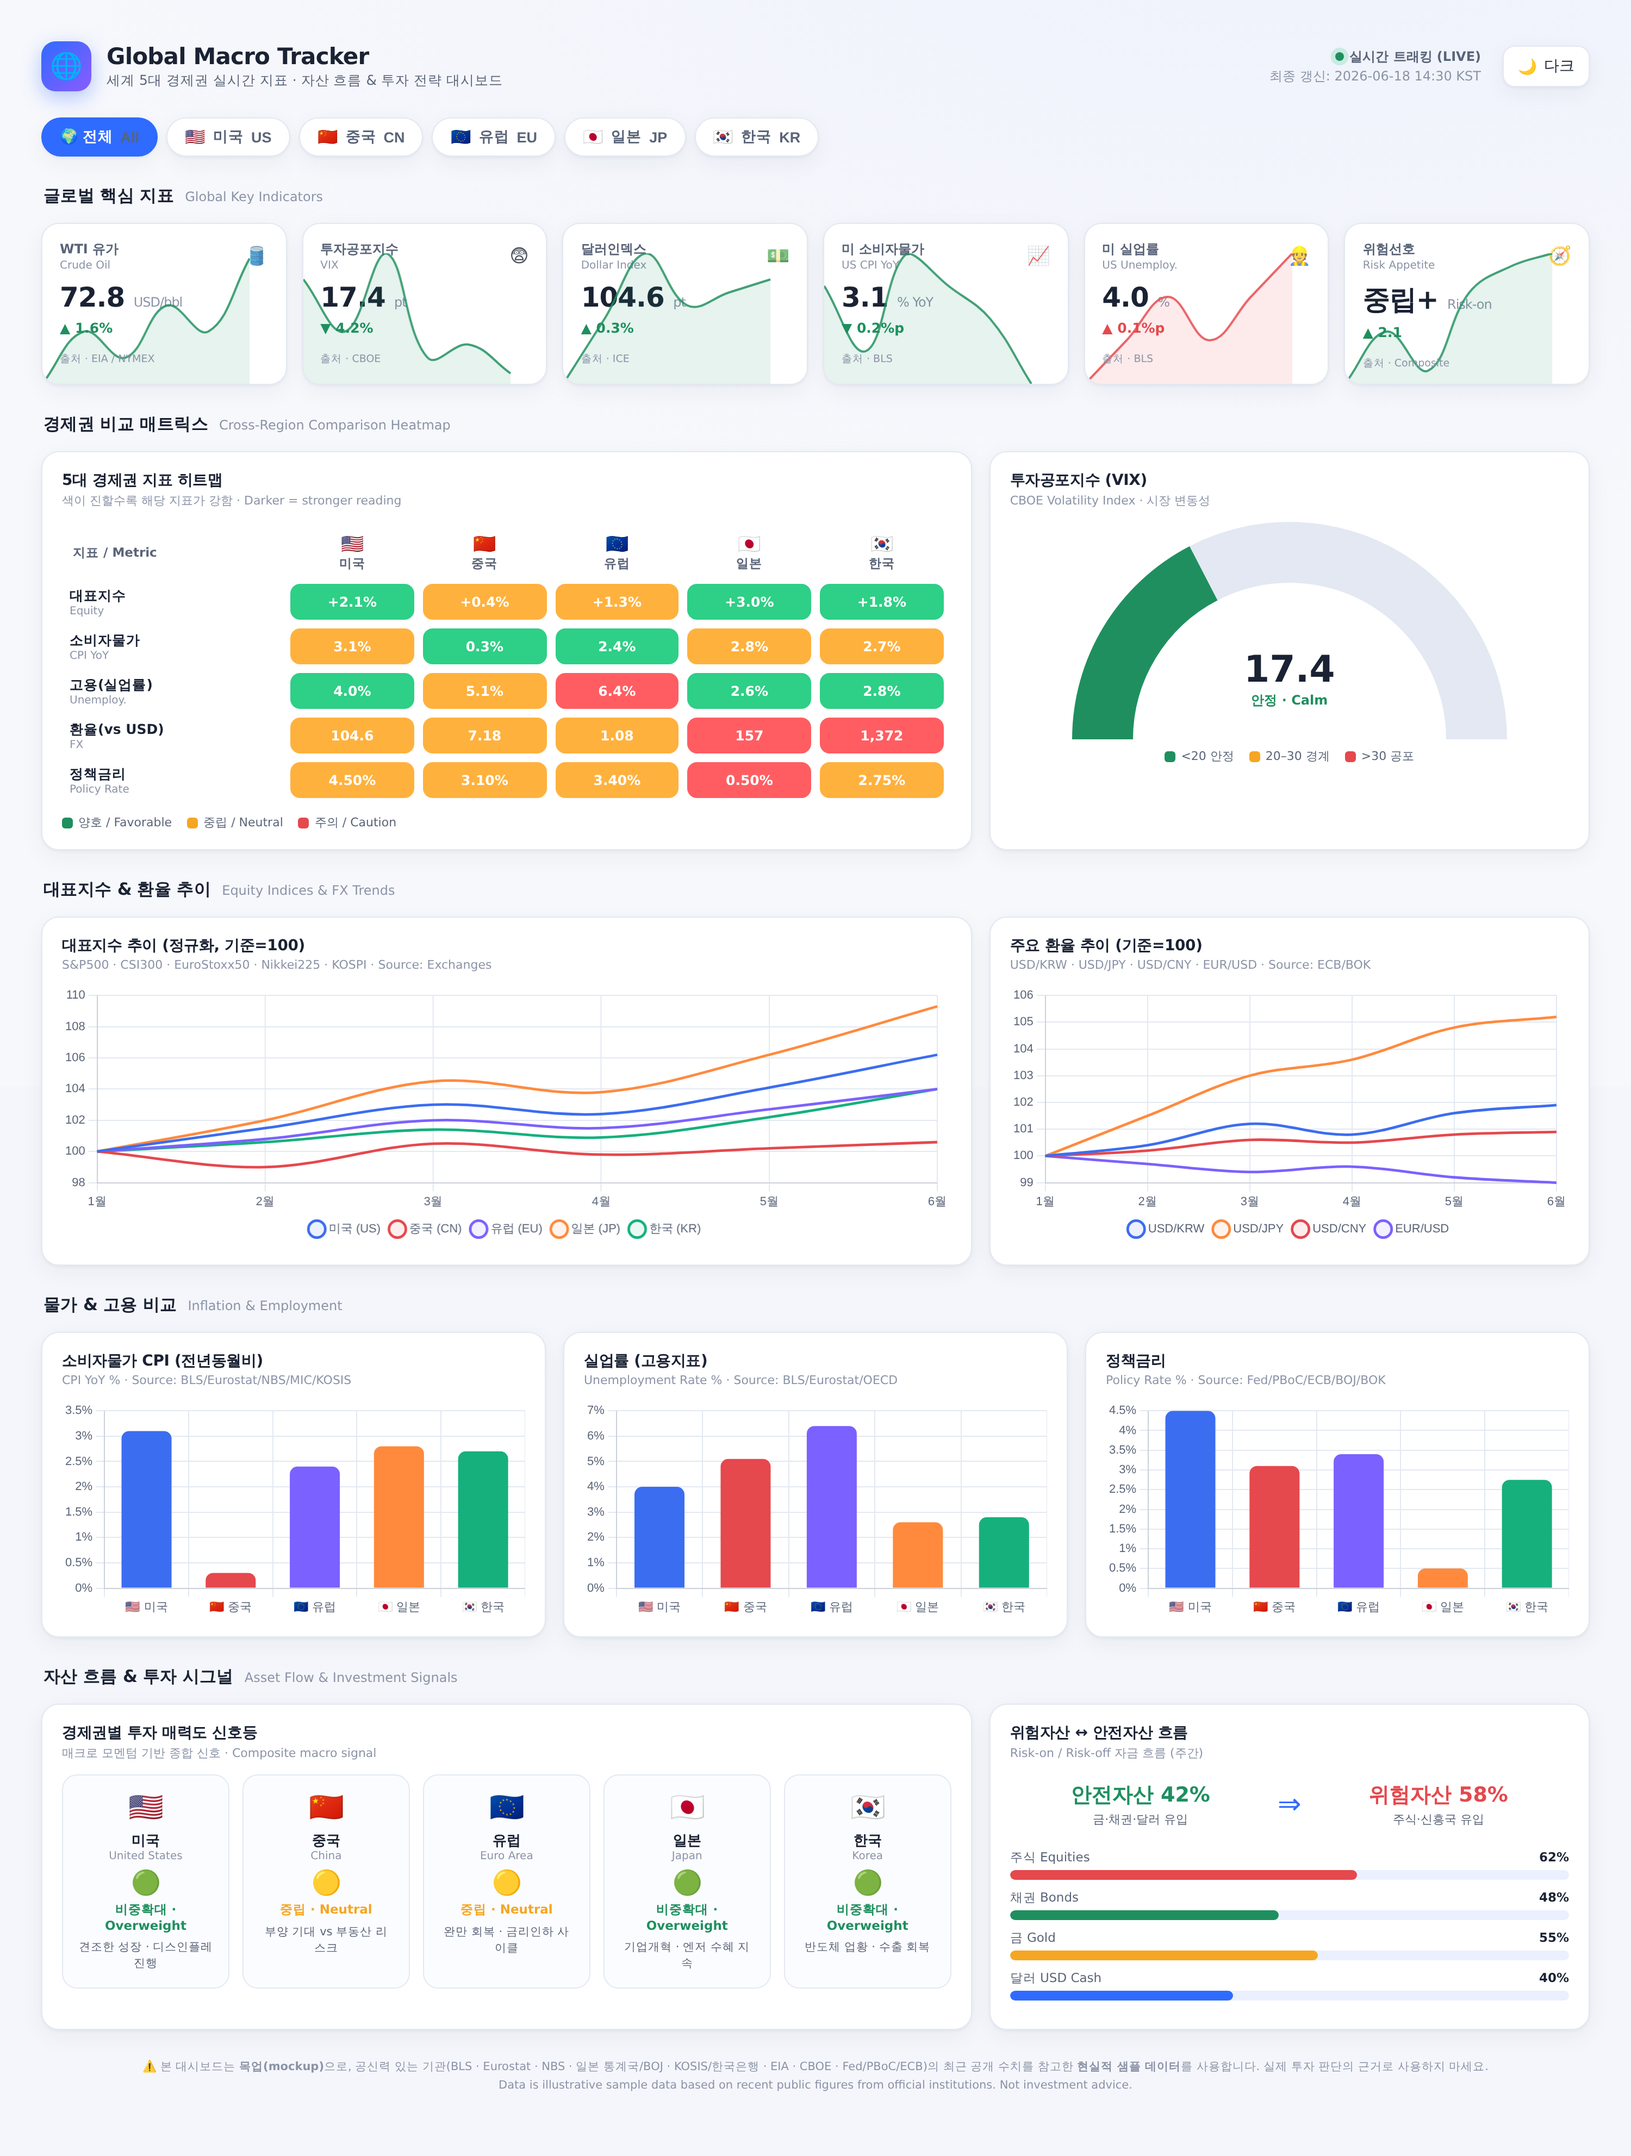
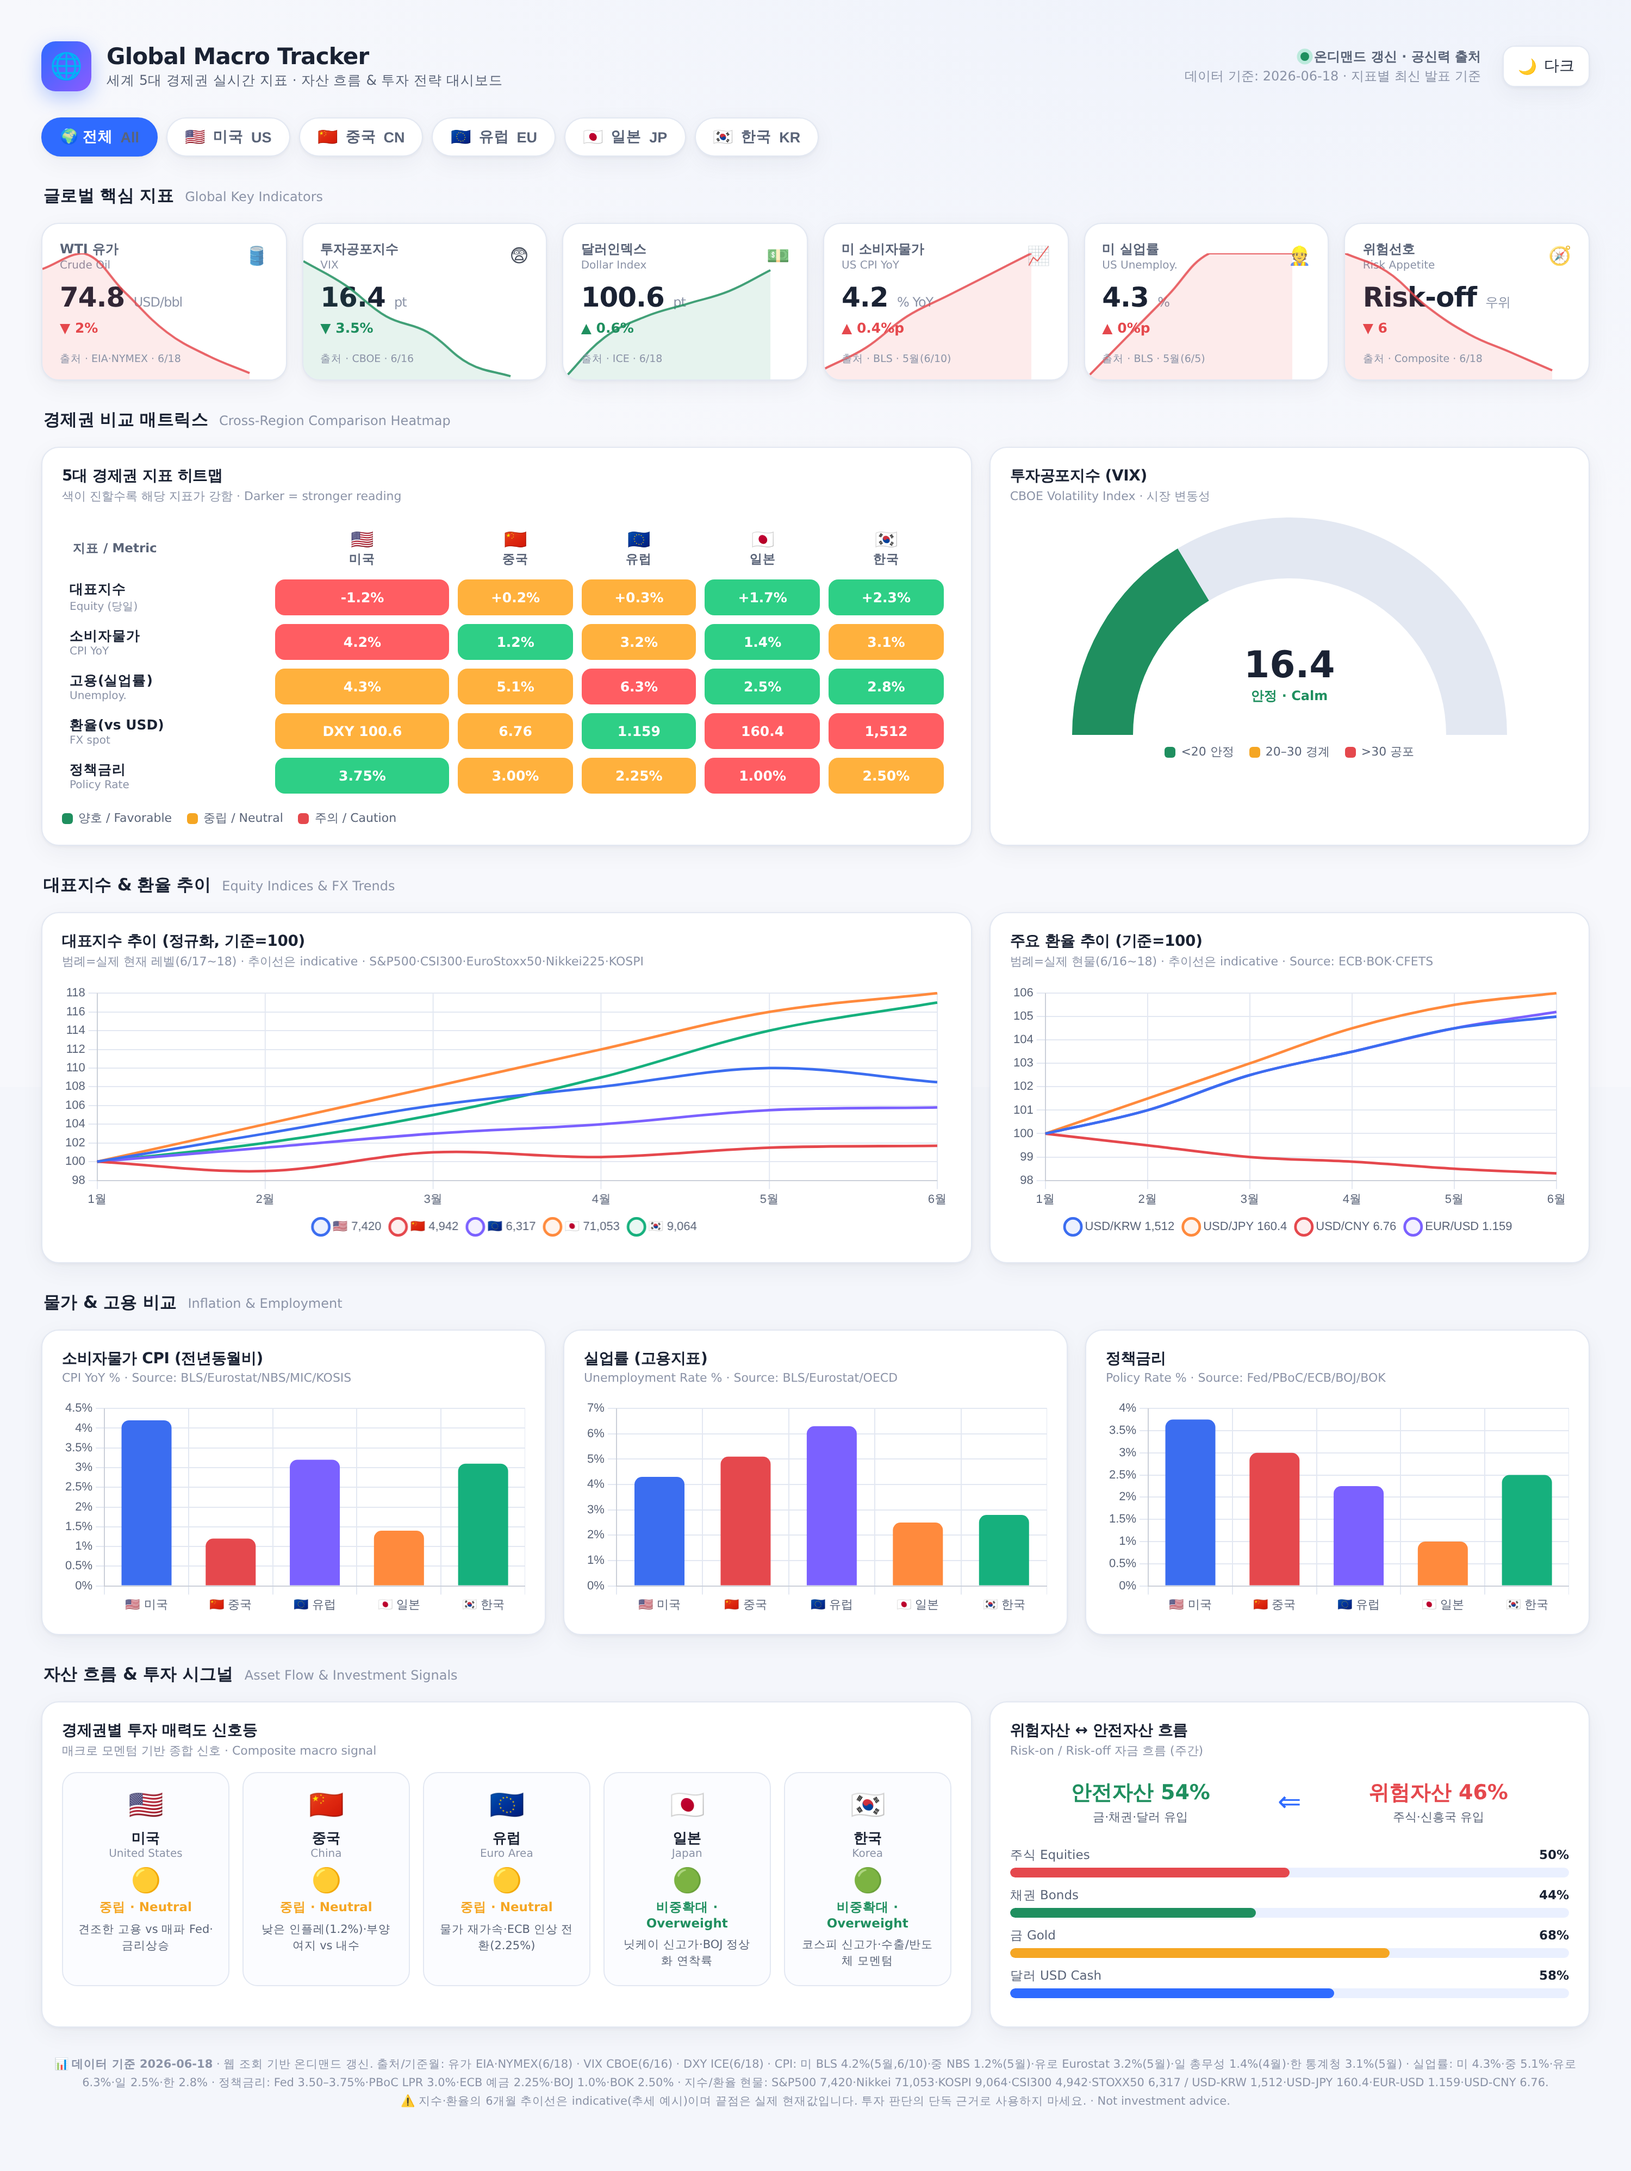
data: 2026-06-18 공신력 출처 실측치로 대시보드 갱신
웹 조회 기반 온디맨드 갱신. 공신력 출처(BLS·Eurostat·NBS·일본 총무성·통계청·
EIA·CBOE·ICE·Fed·PBoC·ECB·BOJ·BOK·ECB FX·CFETS) 최신 발표 수치 반영.
- KPI: WTI 74.8 / VIX 16.4 / DXY 100.6 / 미CPI 4.2% / 미실업 4.3%
- CPI(YoY): US4.2 CN1.2 EU3.2 JP1.4 KR3.1 / 실업률 US4.3 CN5.1 EU6.3 JP2.5 KR2.8
- 정책금리: Fed3.75 PBoC3.0 ECB2.25 BOJ1.0 BOK2.50
- 지수 현물·환율 현물 라벨 반영, 추이선은 indicative 표기
- 헤더/출처 푸터에 기준일·발표월 명시

Claude-Session: https://claude.ai/code/session_01B4ZtiJGvRtEZViKZb8dgt9

diff --git a/index.html b/index.html
@@ -212,8 +212,8 @@
     </div>
     <div class="spacer"></div>
     <div class="updated">
-      <div><span class="live-dot"></span><b>실시간 트래킹 (LIVE)</b></div>
-      <div id="updated-time">최종 갱신: 2026-06-18 14:30 KST</div>
+      <div><span class="live-dot"></span><b>온디맨드 갱신 · 공신력 출처</b></div>
+      <div id="updated-time">데이터 기준: 2026-06-18 · 지표별 최신 발표 기준</div>
     </div>
     <button class="theme-toggle" id="themeBtn">🌙 <span id="themeLabel">다크</span></button>
   </header>
@@ -274,12 +274,12 @@
   <div class="grid g-2">
     <div class="card">
       <h3>대표지수 추이 (정규화, 기준=100)</h3>
-      <div class="h-en">S&amp;P500 · CSI300 · EuroStoxx50 · Nikkei225 · KOSPI · Source: Exchanges</div>
+      <div class="h-en">범례=실제 현재 레벨(6/17~18) · 추이선은 indicative · S&amp;P500·CSI300·EuroStoxx50·Nikkei225·KOSPI</div>
       <div class="canvas-box"><canvas id="idxChart"></canvas></div>
     </div>
     <div class="card">
       <h3>주요 환율 추이 (기준=100)</h3>
-      <div class="h-en">USD/KRW · USD/JPY · USD/CNY · EUR/USD · Source: ECB/BOK</div>
+      <div class="h-en">범례=실제 현물(6/16~18) · 추이선은 indicative · Source: ECB·BOK·CFETS</div>
       <div class="canvas-box"><canvas id="fxChart"></canvas></div>
     </div>
   </div>
@@ -329,8 +329,13 @@
   </div>
 
   <div class="footnote">
-    ⚠ 본 대시보드는 <b>목업(mockup)</b>으로, 공신력 있는 기관(BLS · Eurostat · NBS · 일본 통계국/BOJ · KOSIS/한국은행 · EIA · CBOE · Fed/PBoC/ECB)의 최근 공개 수치를 참고한 <b>현실적 샘플 데이터</b>를 사용합니다. 실제 투자 판단의 근거로 사용하지 마세요.<br/>
-    Data is illustrative sample data based on recent public figures from official institutions. Not investment advice.
+    📊 <b>데이터 기준 2026-06-18</b> · 웹 조회 기반 온디맨드 갱신. 출처/기준월:
+    유가 EIA·NYMEX(6/18) · VIX CBOE(6/16) · DXY ICE(6/18) ·
+    CPI: 미 BLS 4.2%(5월,6/10)·중 NBS 1.2%(5월)·유로 Eurostat 3.2%(5월)·일 총무성 1.4%(4월)·한 통계청 3.1%(5월) ·
+    실업률: 미 4.3%·중 5.1%·유로 6.3%·일 2.5%·한 2.8% ·
+    정책금리: Fed 3.50–3.75%·PBoC LPR 3.0%·ECB 예금 2.25%·BOJ 1.0%·BOK 2.50% ·
+    지수/환율 현물: S&amp;P500 7,420·Nikkei 71,053·KOSPI 9,064·CSI300 4,942·STOXX50 6,317 / USD-KRW 1,512·USD-JPY 160.4·EUR-USD 1.159·USD-CNY 6.76.<br/>
+    ⚠ 지수·환율의 6개월 추이선은 indicative(추세 예시)이며 끝점은 실제 현재값입니다. 투자 판단의 단독 근거로 사용하지 마세요. · Not investment advice.
   </div>
 </div>
 
@@ -351,70 +356,72 @@ const REGIONS = {
 };
 
 const DATA = {
-  // 글로벌 KPI 카드
+  // 글로벌 KPI 카드 — 2026-06 공신력 출처 실측치
   kpi: [
-    { id:'wti',  label:'WTI 유가',     en:'Crude Oil',     icon:'🛢', val:'72.8', unit:'USD/bbl', chg:+1.6, src:'EIA / NYMEX',
-      spark:[68,70,69,71,70,72.8] },
-    { id:'vix',  label:'투자공포지수',  en:'VIX',           icon:'😨', val:'17.4', unit:'pt', chg:-4.2, src:'CBOE',
-      spark:[21,19,22,18,18.5,17.4], invert:true },
-    { id:'dxy',  label:'달러인덱스',    en:'Dollar Index',  icon:'💵', val:'104.6',unit:'pt', chg:+0.3, src:'ICE',
-      spark:[103,104,105,104.2,104.4,104.6] },
-    { id:'cpi',  label:'미 소비자물가', en:'US CPI YoY',    icon:'📈', val:'3.1', unit:'% YoY', chg:-0.2, src:'BLS', invert:true,
-      spark:[3.4,3.2,3.5,3.4,3.3,3.1] },
-    { id:'emp',  label:'미 실업률',     en:'US Unemploy.',  icon:'👷', val:'4.0', unit:'%', chg:+0.1, src:'BLS', invert:true,
-      spark:[3.7,3.8,3.9,3.8,3.9,4.0] },
-    { id:'risk', label:'위험선호',      en:'Risk Appetite', icon:'🧭', val:'중립+',unit:'Risk-on', chg:+2.1, src:'Composite',
-      spark:[48,52,49,55,57,58] },
+    { id:'wti',  label:'WTI 유가',     en:'Crude Oil',     icon:'🛢', val:'74.8', unit:'USD/bbl', chg:-2.0, src:'EIA·NYMEX · 6/18',
+      spark:[88,90,85,80,77,74.8] },
+    { id:'vix',  label:'투자공포지수',  en:'VIX',           icon:'😨', val:'16.4', unit:'pt', chg:-3.5, src:'CBOE · 6/16', invert:true,
+      spark:[31,28,24,22,18,16.4] },
+    { id:'dxy',  label:'달러인덱스',    en:'Dollar Index',  icon:'💵', val:'100.6',unit:'pt', chg:+0.6, src:'ICE · 6/18',
+      spark:[98,99,99.5,99.8,100.1,100.6] },
+    { id:'cpi',  label:'미 소비자물가', en:'US CPI YoY',    icon:'📈', val:'4.2', unit:'% YoY', chg:+0.4, src:'BLS · 5월(6/10)', invert:true,
+      spark:[3.1,3.3,3.6,3.8,4.0,4.2] },
+    { id:'emp',  label:'미 실업률',     en:'US Unemploy.',  icon:'👷', val:'4.3', unit:'%', chg:0.0, src:'BLS · 5월(6/5)', invert:true,
+      spark:[4.0,4.1,4.2,4.3,4.3,4.3] },
+    { id:'risk', label:'위험선호',      en:'Risk Appetite', icon:'🧭', val:'Risk-off',unit:'우위', chg:-6.0, src:'Composite · 6/18',
+      spark:[56,54,50,47,45,43] },
   ],
-  // 히트맵: 지표 × 경제권. score 0~100(높을수록 강/양호), disp 표시값
+  // 히트맵: 지표 × 경제권. score 0~100(높을수록 강/양호), d=표시값(실측)
   matrix: [
-    { metric:'대표지수', en:'Equity', fmt:'%MoM',
-      cells:{ US:{d:'+2.1%',s:78}, CN:{d:'+0.4%',s:52}, EU:{d:'+1.3%',s:68}, JP:{d:'+3.0%',s:85}, KR:{d:'+1.8%',s:72} } },
+    { metric:'대표지수', en:'Equity (당일)', fmt:'%',
+      cells:{ US:{d:'-1.2%',s:35}, CN:{d:'+0.2%',s:55}, EU:{d:'+0.3%',s:57}, JP:{d:'+1.7%',s:82}, KR:{d:'+2.3%',s:88} } },
     { metric:'소비자물가', en:'CPI YoY', fmt:'',
-      cells:{ US:{d:'3.1%',s:55}, CN:{d:'0.3%',s:88}, EU:{d:'2.4%',s:70}, JP:{d:'2.8%',s:62}, KR:{d:'2.7%',s:64} } },
+      cells:{ US:{d:'4.2%',s:35}, CN:{d:'1.2%',s:85}, EU:{d:'3.2%',s:50}, JP:{d:'1.4%',s:80}, KR:{d:'3.1%',s:52} } },
     { metric:'고용(실업률)', en:'Unemploy.', fmt:'',
-      cells:{ US:{d:'4.0%',s:72}, CN:{d:'5.1%',s:55}, EU:{d:'6.4%',s:48}, JP:{d:'2.6%',s:90}, KR:{d:'2.8%',s:86} } },
-    { metric:'환율(vs USD)', en:'FX', fmt:'',
-      cells:{ US:{d:'104.6',s:60}, CN:{d:'7.18',s:50}, EU:{d:'1.08',s:58}, JP:{d:'157',s:32}, KR:{d:'1,372',s:42} } },
+      cells:{ US:{d:'4.3%',s:68}, CN:{d:'5.1%',s:55}, EU:{d:'6.3%',s:45}, JP:{d:'2.5%',s:92}, KR:{d:'2.8%',s:88} } },
+    { metric:'환율(vs USD)', en:'FX spot', fmt:'',
+      cells:{ US:{d:'DXY 100.6',s:60}, CN:{d:'6.76',s:68}, EU:{d:'1.159',s:75}, JP:{d:'160.4',s:35}, KR:{d:'1,512',s:45} } },
     { metric:'정책금리', en:'Policy Rate', fmt:'',
-      cells:{ US:{d:'4.50%',s:62}, CN:{d:'3.10%',s:55}, EU:{d:'3.40%',s:60}, JP:{d:'0.50%',s:40}, KR:{d:'2.75%',s:58} } },
+      cells:{ US:{d:'3.75%',s:70}, CN:{d:'3.00%',s:62}, EU:{d:'2.25%',s:55}, JP:{d:'1.00%',s:40}, KR:{d:'2.50%',s:58} } },
   ],
-  // 대표지수 정규화 추이 (기준=100, 연초 대비)
+  // 대표지수: 6개월 추이는 indicative, 끝값 라벨은 실제 현재 레벨(6/17~18)
   indices: {
     labels: MONTHS,
+    levels: { US:'7,420', CN:'4,942', EU:'6,317', JP:'71,053', KR:'9,064' },
     series: {
-      US:[100,101.5,103,102.4,104.1,106.2], CN:[100,99,100.5,99.8,100.2,100.6],
-      EU:[100,100.8,102,101.5,102.7,104.0], JP:[100,102,104.5,103.8,106.2,109.3],
-      KR:[100,100.6,101.4,100.9,102.2,104.0],
+      US:[100,103,106,108,110,108.5], CN:[100,99,101,100.5,101.5,101.7],
+      EU:[100,101.5,103,104,105.5,105.8], JP:[100,104,108,112,116,118],
+      KR:[100,102,105,109,114,117],
     }
   },
-  // 환율 정규화 추이 (기준=100)
+  // 환율: 추이 indicative, 끝값 라벨은 실제 현물(6/16~18)
   fx: {
     labels: MONTHS,
+    levels: { 'USD/KRW':'1,512', 'USD/JPY':'160.4', 'USD/CNY':'6.76', 'EUR/USD':'1.159' },
     series: {
-      'USD/KRW':[100,100.4,101.2,100.8,101.6,101.9], 'USD/JPY':[100,101.5,103,103.6,104.8,105.2],
-      'USD/CNY':[100,100.2,100.6,100.5,100.8,100.9], 'EUR/USD':[100,99.7,99.4,99.6,99.2,99.0],
+      'USD/KRW':[100,101,102.5,103.5,104.5,105], 'USD/JPY':[100,101.5,103,104.5,105.5,106],
+      'USD/CNY':[100,99.5,99,98.8,98.5,98.3], 'EUR/USD':[100,101,102.5,103.5,104.5,105.2],
     }
   },
-  // CPI YoY 현재값
-  cpi: { US:3.1, CN:0.3, EU:2.4, JP:2.8, KR:2.7 },
-  // 실업률
-  emp: { US:4.0, CN:5.1, EU:6.4, JP:2.6, KR:2.8 },
-  // 정책금리
-  rate:{ US:4.50, CN:3.10, EU:3.40, JP:0.50, KR:2.75 },
-  vix: 17.4,
-  // 투자 시그널 신호등
+  // CPI YoY 실측 (최신 발표월)
+  cpi: { US:4.2, CN:1.2, EU:3.2, JP:1.4, KR:3.1 },
+  // 실업률 실측
+  emp: { US:4.3, CN:5.1, EU:6.3, JP:2.5, KR:2.8 },
+  // 정책금리 실측
+  rate:{ US:3.75, CN:3.00, EU:2.25, JP:1.00, KR:2.50 },
+  vix: 16.4,
+  // 투자 시그널 신호등 — 데이터 기반 종합 판단
   signals: {
-    US:{ light:'🟢', verdict:'비중확대', vEn:'Overweight', note:'견조한 성장 · 디스인플레 진행' },
-    CN:{ light:'🟡', verdict:'중립',     vEn:'Neutral',    note:'부양 기대 vs 부동산 리스크' },
-    EU:{ light:'🟡', verdict:'중립',     vEn:'Neutral',    note:'완만 회복 · 금리인하 사이클' },
-    JP:{ light:'🟢', verdict:'비중확대', vEn:'Overweight', note:'기업개혁 · 엔저 수혜 지속' },
-    KR:{ light:'🟢', verdict:'비중확대', vEn:'Overweight', note:'반도체 업황 · 수출 회복' },
+    US:{ light:'🟡', verdict:'중립',     vEn:'Neutral',    note:'견조한 고용 vs 매파 Fed·금리상승' },
+    CN:{ light:'🟡', verdict:'중립',     vEn:'Neutral',    note:'낮은 인플레(1.2%)·부양 여지 vs 내수' },
+    EU:{ light:'🟡', verdict:'중립',     vEn:'Neutral',    note:'물가 재가속·ECB 인상 전환(2.25%)' },
+    JP:{ light:'🟢', verdict:'비중확대', vEn:'Overweight', note:'닛케이 신고가·BOJ 정상화 연착륙' },
+    KR:{ light:'🟢', verdict:'비중확대', vEn:'Overweight', note:'코스피 신고가·수출/반도체 모멘텀' },
   },
-  // 자산 흐름 (주간, % 자금흐름 방향)
-  flow: { riskOn: 58, riskOff: 42,
-    bars:[ {k:'주식 Equities', v:62, c:'var(--up)'}, {k:'채권 Bonds', v:48, c:'var(--down)'},
-           {k:'금 Gold', v:55, c:'var(--warn)'}, {k:'달러 USD Cash', v:40, c:'var(--accent)'} ] }
+  // 자산 흐름 (% 자금흐름 강도) — 매파 Fed·에너지 쇼크로 안전자산 선호
+  flow: { riskOn: 46, riskOff: 54,
+    bars:[ {k:'주식 Equities', v:50, c:'var(--up)'}, {k:'채권 Bonds', v:44, c:'var(--down)'},
+           {k:'금 Gold', v:68, c:'var(--warn)'}, {k:'달러 USD Cash', v:58, c:'var(--accent)'} ] }
 };
 
 /* ===================== THEME ===================== */
@@ -556,7 +563,7 @@ function buildIndexChart(){
   const ctx=document.getElementById('idxChart');
   charts.idx = new Chart(ctx,{ type:'line',
     data:{ labels:DATA.indices.labels, datasets:Object.keys(DATA.indices.series).map(k=>({
-      label:REGIONS[k].name+' ('+k+')', data:DATA.indices.series[k], borderColor:regionColor(k),
+      label:REGIONS[k].flag+' '+(DATA.indices.levels[k]||k), data:DATA.indices.series[k], borderColor:regionColor(k),
       backgroundColor:regionColor(k)+'18', borderWidth:2.4, tension:.35, pointRadius:0, pointHoverRadius:4 })) },
     options: baseLineOpts() });
 }
@@ -565,7 +572,7 @@ function buildFxChart(){
   const cols=[cssVar('--us'),cssVar('--jp'),cssVar('--cn'),cssVar('--eu')];
   charts.fx = new Chart(ctx,{ type:'line',
     data:{ labels:DATA.fx.labels, datasets:Object.keys(DATA.fx.series).map((k,i)=>({
-      label:k, data:DATA.fx.series[k], borderColor:cols[i], backgroundColor:cols[i]+'18',
+      label:k+' '+(DATA.fx.levels[k]||''), data:DATA.fx.series[k], borderColor:cols[i], backgroundColor:cols[i]+'18',
       borderWidth:2.4, tension:.35, pointRadius:0, pointHoverRadius:4 })) },
     options: baseLineOpts() });
 }
@@ -616,7 +623,7 @@ function applyRegionFilter(){
   // 라인차트 데이터셋 강조
   [charts.idx].forEach(ch=>{ if(!ch) return;
     ch.data.datasets.forEach(ds=>{
-      const code=Object.keys(REGIONS).find(k=>ds.label.includes(REGIONS[k].name));
+      const code=Object.keys(REGIONS).find(k=>ds.label.includes(REGIONS[k].flag));
       const dim=(activeRegion!=='ALL'&&code!==activeRegion);
       ds.borderWidth = dim?1:2.6; ds.borderColor = dim? cssVar('--text-faint')+'55' : regionColor(code);
     });
